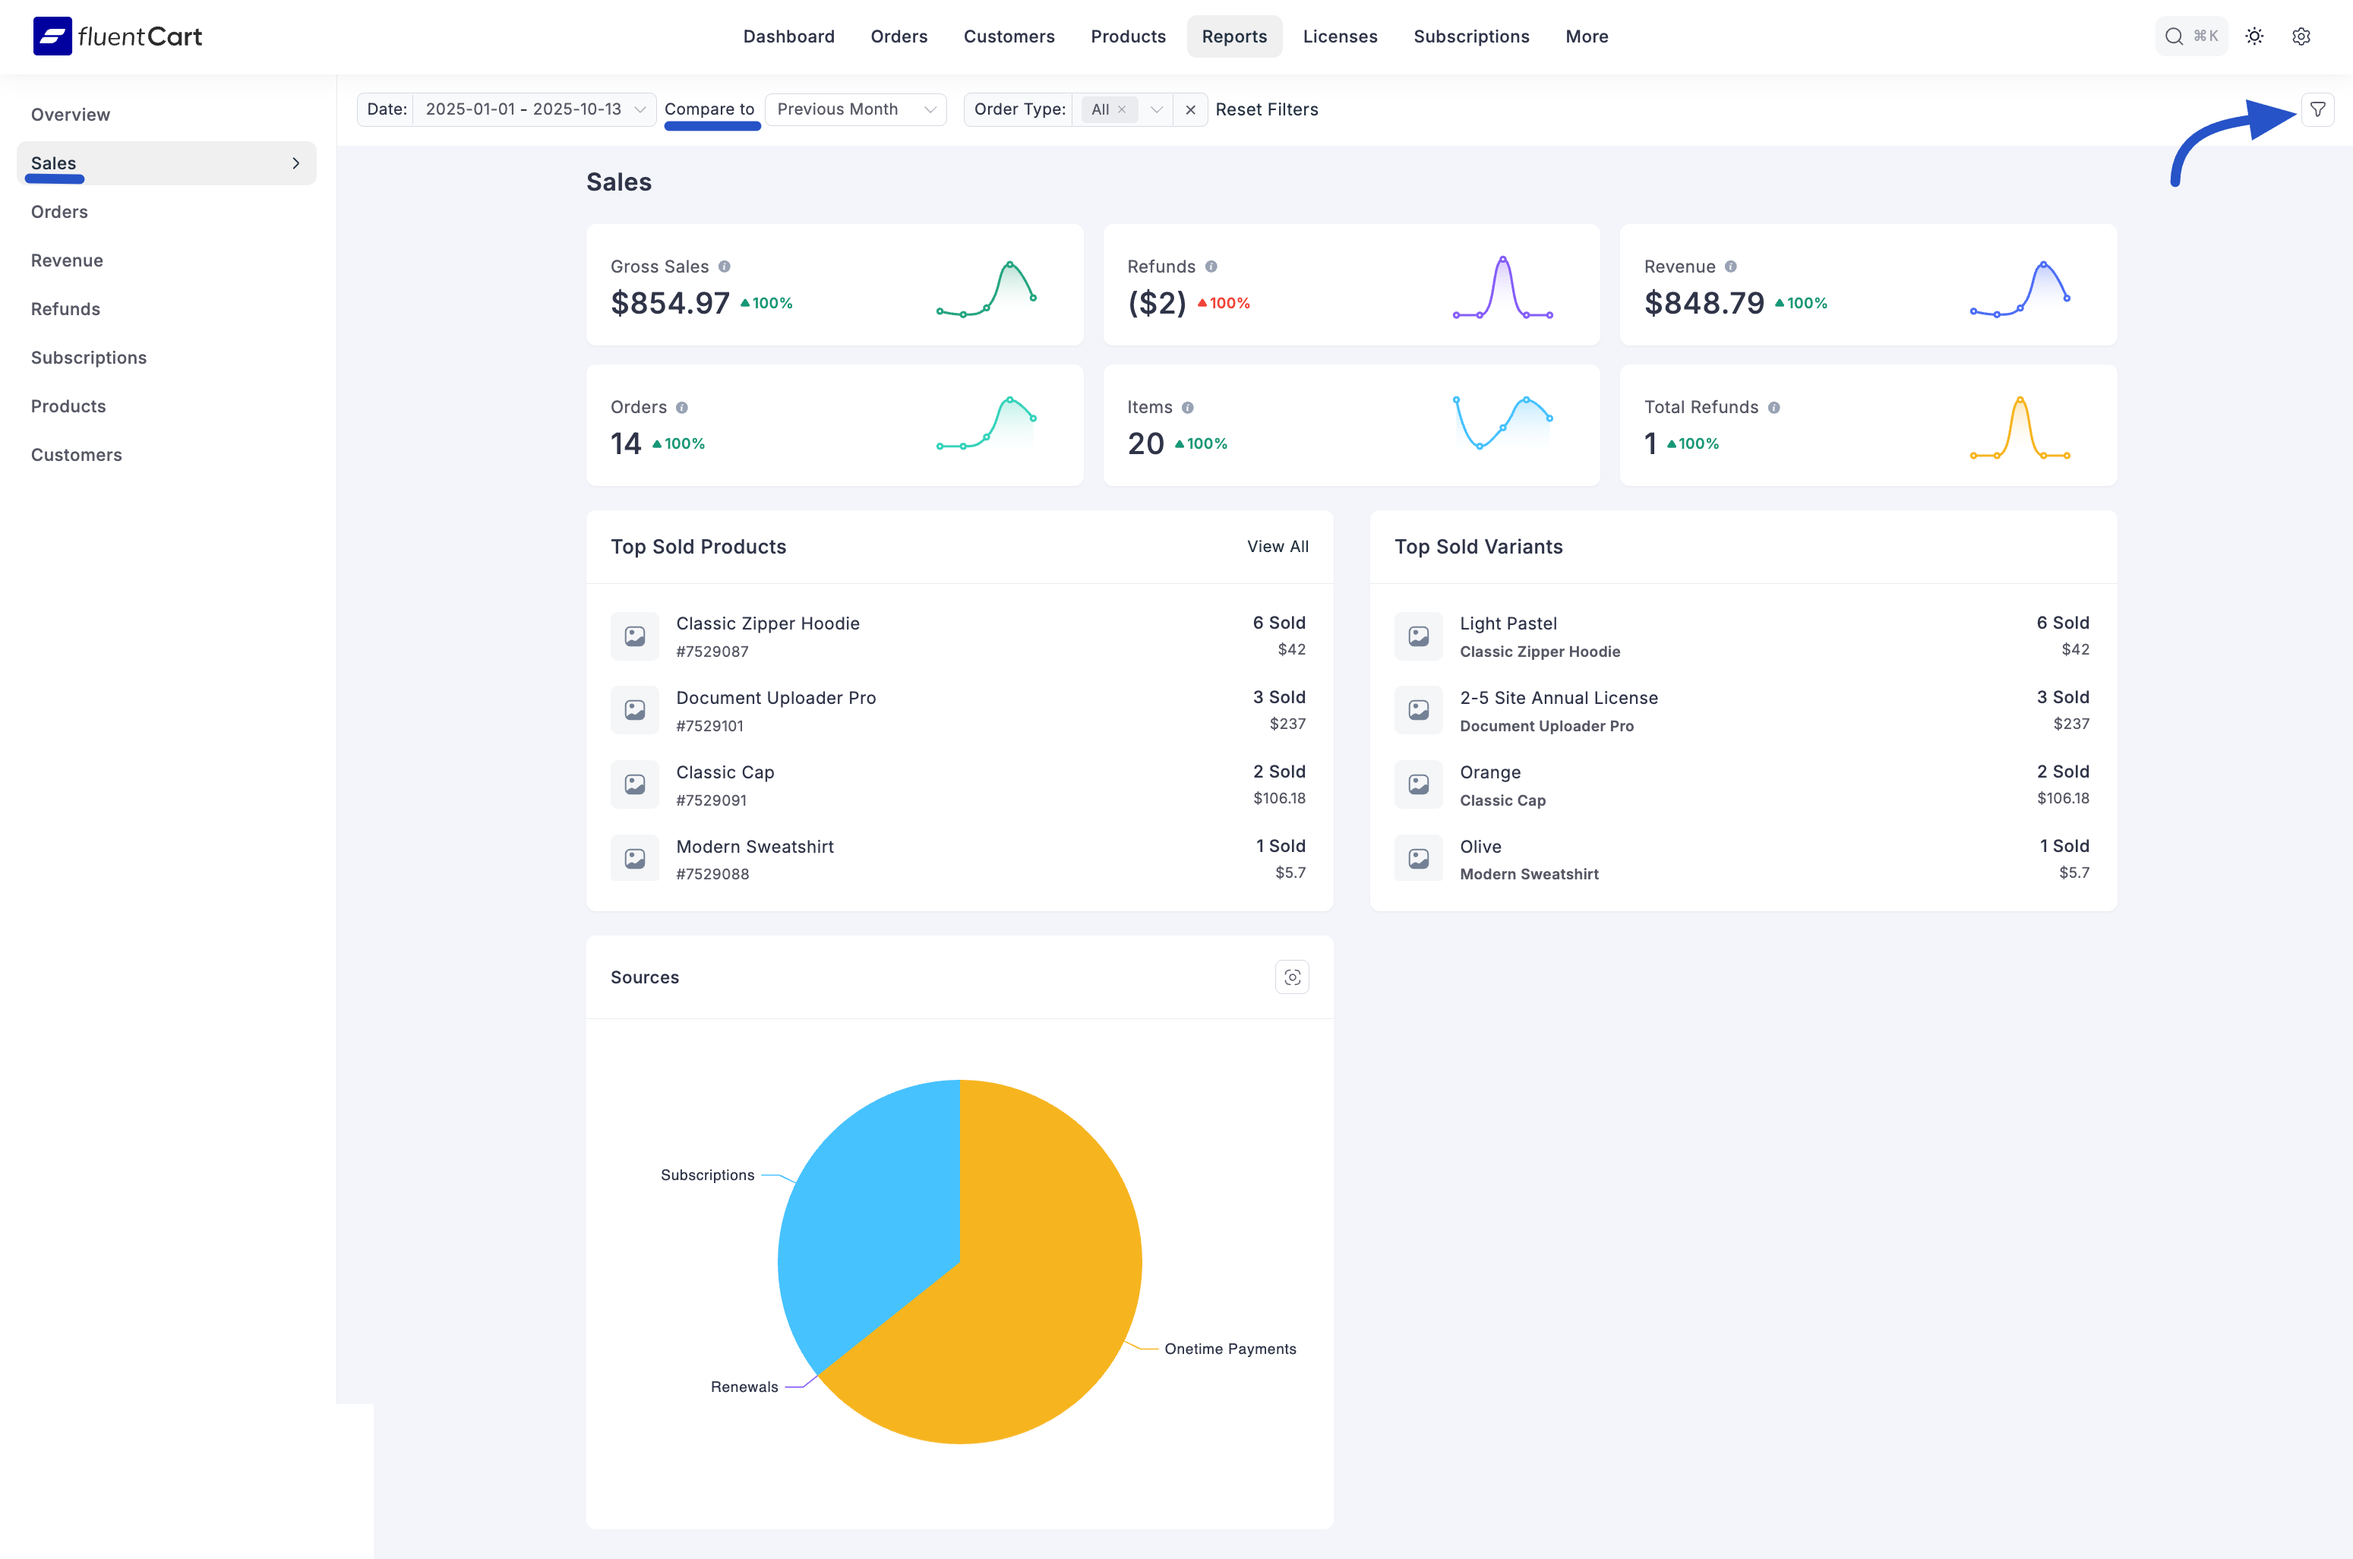
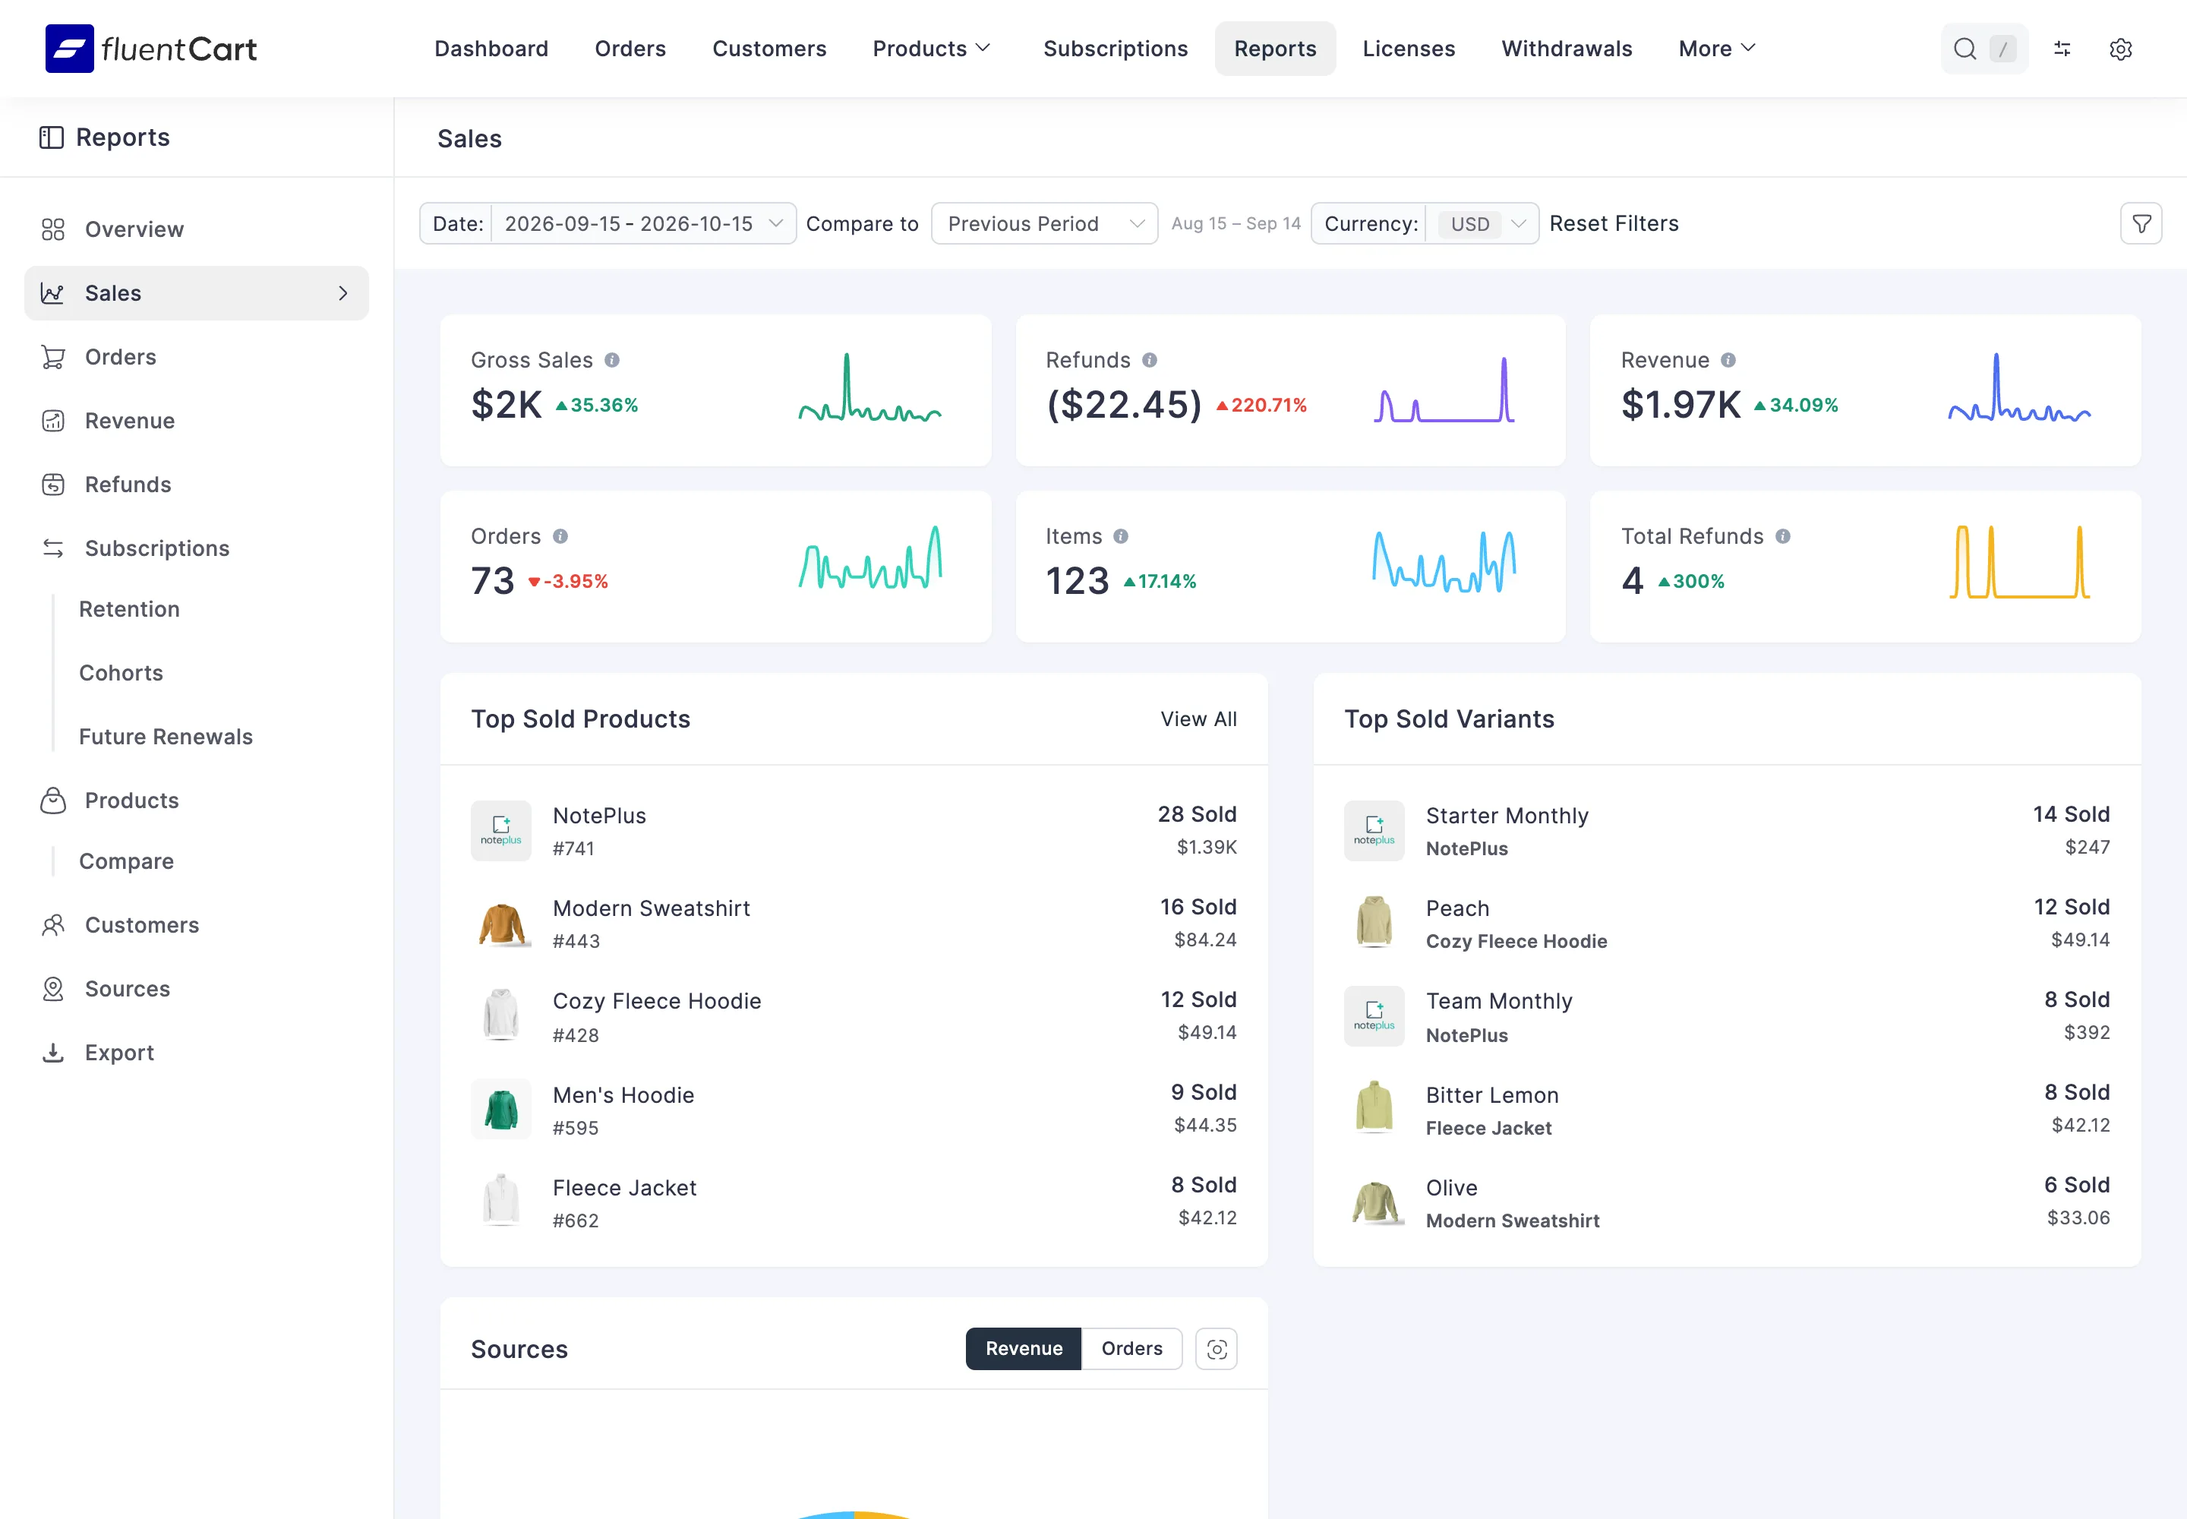
Clarify sales report comparison dates
Explain where to find the dates for the selected comparison period and refresh the sales report screenshot.

diff --git a/guide/reporting-analytics/sales-report.md b/guide/reporting-analytics/sales-report.md
@@ -16,7 +16,7 @@ Want to look at a specific time frame? Or maybe you want to see how your sales t
 The top of the dashboard gives you key controls to choose what data appears in the report.
 
 * **Date Filter:** This field allows you to define the date range for your report, enabling you to focus on specific periods.
-* **Compare To:** This dropdown allows you to choose a past time period to compare with your current data.
+* **Compare To:** This dropdown allows you to choose a past time period to compare with your current data. The dates of the selected period appear in grey text beside the dropdown, and each option in the list shows its own dates.
 * **Advanced Filters:** Click the **filter** icon to break down the report by options like **Order Type** or specific **Products**. This helps you focus on detailed sales data for a closer view.
 * **Reset Filters:** Click this button to instantly clear all applied date and comparison selections and revert the report to its default view.
 
